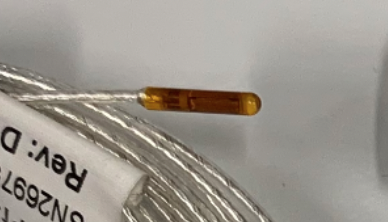
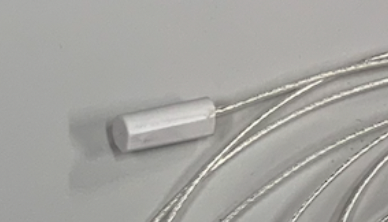
adding in optimal config section

diff --git a/trakstar.html b/trakstar.html
@@ -161,6 +161,26 @@
           </div>
         </div>
 
+        <p>
+          Four configurations were tested as seen in the table below. The joint orientations and positions were recorded 
+          as tranforms utilizing ROS and data analysis was conducted within Python to obtain the joint angles. Those angles were compared to the actual 
+          angles and the error between the two were calculated and dsiplayed in the table below.
+        </p>
+
+        <div class="image-bubble">
+         <img src="assets/images/trakstar/sensor-config-results.png" alt="Sensor Configuration Results" class="cad-electronics-image">
+        </div>
+
+        <p>
+          Looking at both the error and form factor of the individual sensors within each configuration, it was clear that the 
+        </p>
+
+        <div class="image-bubble">
+         <img src="assets/images/trakstar/optimal-sensor-config.jpeg" alt="Optimal Sensor Configuration" class="cad-electronics-image">
+        </div>
+
+
+
 
       <div class="bubble">
         <h3 id="pcb-integration">PCB Integration</h3>

diff --git a/style.css b/style.css
@@ -808,6 +808,6 @@ main {
 .sensor-column img {
   max-width: 240px;
   height: auto;
-  border-radius: 4px;
+  border-radius: 12px;
   box-shadow: 0 4px 10px rgba(0, 0, 0, 0.1);
 }
